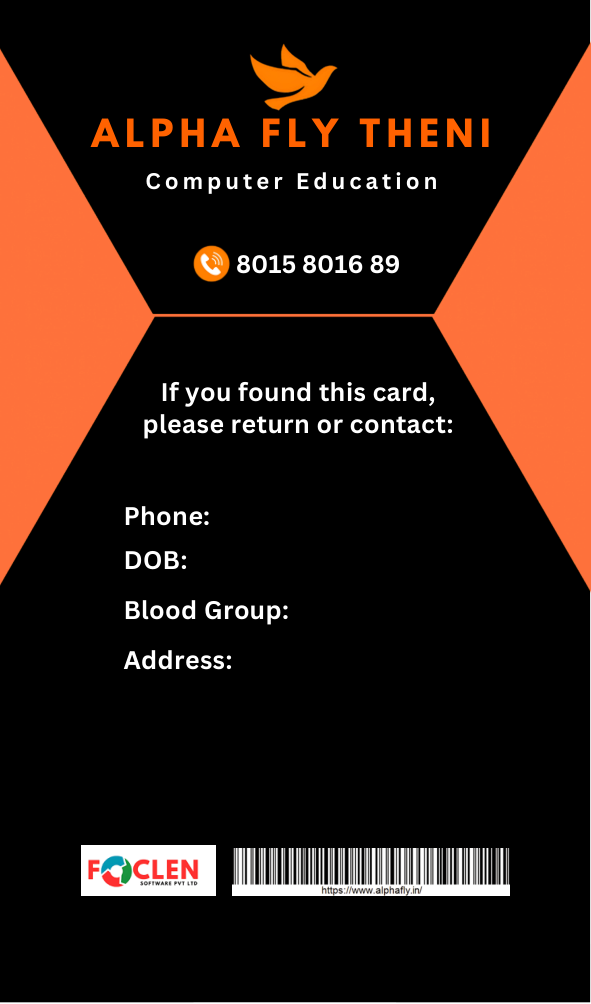
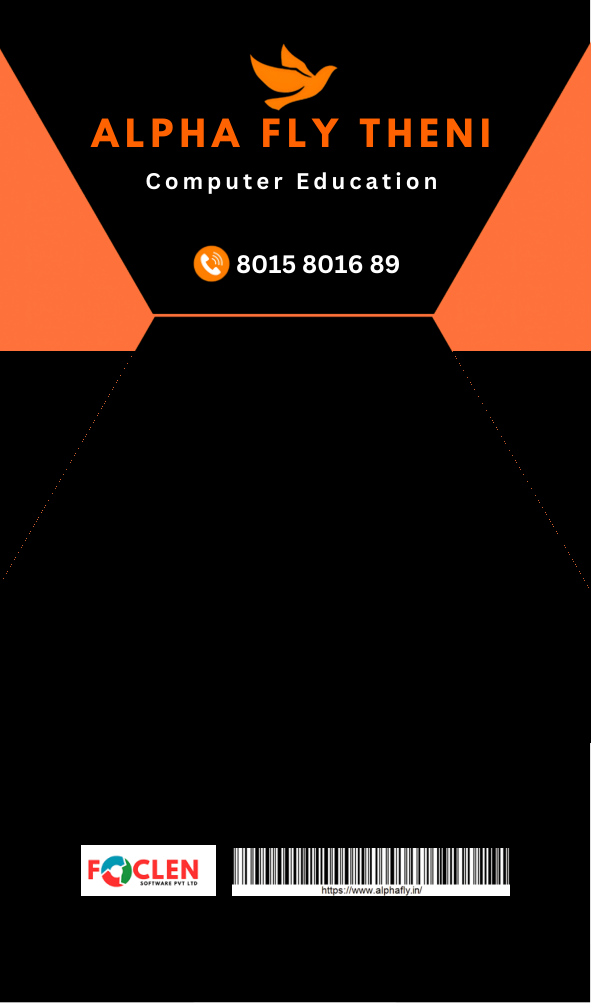
fix: center back side notice and key-value details grid cleanly in the middle of the card

diff --git a/src/idcard/components/IDCardTemplate.tsx b/src/idcard/components/IDCardTemplate.tsx
@@ -168,6 +168,7 @@ export const IDCardTemplate: React.FC<IDCardTemplateProps> = ({
   // BACK SIDE
   const addressVal = (data.address || data.emergencyContact || '6380245526').trim();
   const phoneVal = (data.emergencyPhone || data.studentContact || data.parentPhone || '9384266256').trim();
+  const dobVal = data.dob ? (data.dob.includes('-') ? data.dob.split('-').reverse().join('/') : data.dob) : '03/20/2002';
 
   return (
     <div
@@ -187,87 +188,66 @@ export const IDCardTemplate: React.FC<IDCardTemplateProps> = ({
         position: 'relative',
       }}
     >
-      {/* 1. Official High-Resolution 1:1 Vector/Base Graphics */}
+      {/* 1. Clean Vector/Base Graphics */}
       <img
         src="/id_card_assets/back_clean_base.png"
         alt="ID Card Back Canvas"
         className="absolute inset-0 w-full h-full object-fill pointer-events-none z-0"
       />
 
-      {/* 2. DYNAMIC FIELD: PHONE NUMBER (Mathematically calibrated: top 51.64%, left 36.5%) */}
+      {/* 2. CENTERED NOTICE */}
       <div 
-        className="absolute z-10 flex items-center pointer-events-none"
+        className="absolute inset-x-0 flex flex-col items-center justify-center text-center z-10 pointer-events-none px-4"
         style={{ 
-          top: '51.64%', 
-          left: '36.5%',
-          transform: 'translateY(-50%)',
+          top: '37.8%', 
+          height: '10%',
         }}
       >
-        <span 
-          className="font-extrabold text-white tracking-[0.05em] leading-none"
-          style={{ 
-            fontFamily: "'CanvaSans', 'Outfit', 'Inter', sans-serif",
-            fontSize: phoneVal.length > 12 ? '11px' : '12.5px',
-          }}
-        >
-          {phoneVal}
-        </span>
-      </div>
-
-      {/* 3. DYNAMIC FIELD: DOB (Mathematically calibrated: top 56.3%, left 33.5%) */}
-      <div 
-        className="absolute z-10 flex items-center pointer-events-none"
-        style={{ 
-          top: '56.3%', 
-          left: '33.5%',
-          transform: 'translateY(-50%)',
-        }}
-      >
-        <span 
-          className="text-[12.5px] font-extrabold text-white tracking-[0.05em] leading-none"
+        <p 
+          className="text-[12.8px] font-bold text-white tracking-[0.02em] leading-snug"
           style={{ fontFamily: "'CanvaSans', 'Outfit', 'Inter', sans-serif" }}
         >
-          {data.dob ? (data.dob.includes('-') ? data.dob.split('-').reverse().join('/') : data.dob) : '03/20/2002'}
-        </span>
+          If you found this card,<br />please return or contact:
+        </p>
       </div>
 
-      {/* 4. DYNAMIC FIELD: BLOOD GROUP (Mathematically calibrated: top 61.01%, left 50.2%) */}
+      {/* 3. CENTERED DETAILS GRID (Phone, DOB, Blood Group, Address) */}
       <div 
-        className="absolute z-10 flex items-center pointer-events-none"
+        className="absolute inset-x-0 z-10 flex items-center justify-center pointer-events-none px-4"
         style={{ 
-          top: '61.01%', 
-          left: '50.2%',
-          transform: 'translateY(-50%)',
+          top: '50.0%',
+          bottom: '18%',
         }}
       >
-        <span 
-          className="text-[12.5px] font-extrabold text-white tracking-[0.05em] leading-none"
-          style={{ fontFamily: "'CanvaSans', 'Outfit', 'Inter', sans-serif" }}
-        >
-          {data.bloodGroup || 'B+ve'}
-        </span>
-      </div>
-
-      {/* 5. DYNAMIC FIELD: ADDRESS / EMERGENCY PHONE (Mathematically calibrated: top 65.99%, left 40.5%) */}
-      <div 
-        className="absolute z-10 flex items-center pointer-events-none"
-        style={{ 
-          top: '65.99%', 
-          left: '40.5%',
-          transform: 'translateY(-50%)',
-          maxWidth: '160px',
-        }}
-      >
-        <span 
-          className="font-extrabold text-white leading-none"
+        <div 
+          className="grid grid-cols-[auto_1fr] gap-x-2.5 gap-y-2.5 items-baseline mx-auto"
           style={{ 
             fontFamily: "'CanvaSans', 'Outfit', 'Inter', sans-serif",
-            wordBreak: 'break-word',
-            ...getAddressStyle(addressVal),
+            maxWidth: '220px',
+            width: '100%',
           }}
         >
-          {addressVal}
-        </span>
+          {/* Phone */}
+          <span className="font-bold text-white text-right text-[12.5px]">Phone:</span>
+          <span className="font-extrabold text-white text-[12.5px] tracking-[0.04em]">{phoneVal}</span>
+
+          {/* DOB */}
+          <span className="font-bold text-white text-right text-[12.5px]">DOB:</span>
+          <span className="font-extrabold text-white text-[12.5px] tracking-[0.04em]">{dobVal}</span>
+
+          {/* Blood Group */}
+          <span className="font-bold text-white text-right text-[12.5px] whitespace-nowrap">Blood Group:</span>
+          <span className="font-extrabold text-white text-[12.5px] tracking-[0.04em]">{data.bloodGroup || 'B+ve'}</span>
+
+          {/* Address */}
+          <span className="font-bold text-white text-right text-[12.5px]">Address:</span>
+          <span 
+            className="font-extrabold text-white leading-tight break-words"
+            style={getAddressStyle(addressVal)}
+          >
+            {addressVal}
+          </span>
+        </div>
       </div>
 
     </div>
